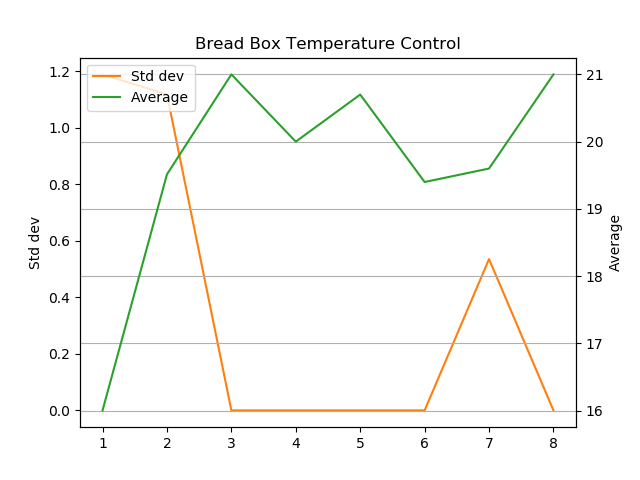
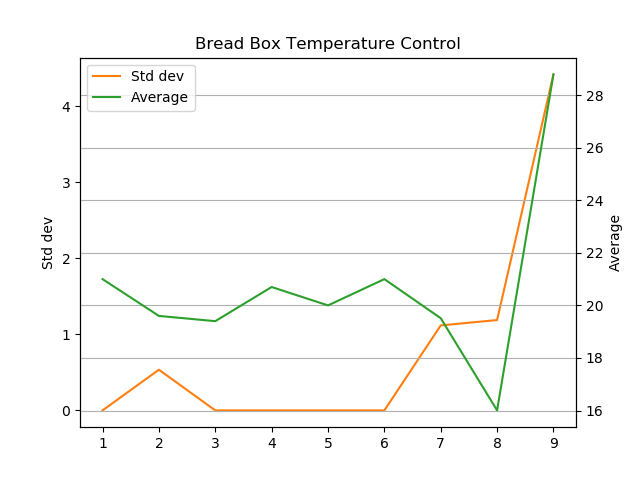
Improving graph generation. Small aesthetic changes. Adding new app for stats

diff --git a/home/templates/home/index.html b/home/templates/home/index.html
@@ -15,21 +15,12 @@
         </div>
         <div class="content container">
             {% load static %}
+            <h1>Latest Run:</h1>
             <img src="{% static "home/graph.png" %}" alt="My image"/>
+            <h1>Run History:</h1>
             <img src="{% static "home/stddev.png" %}" alt="My image"/>
             <div class="row">
                 <div class="col-md-8">
-                    <table>
-                        <thead><h1>All time stats</h1></thead>
-                        <tr class="lb">
-                            <td><h4>Std dev</h4></td>
-                            <td><h4>Mean</h4></td>
-                        </tr>
-                        <tr class="bb">
-                            <td><p>{{ stddev }}</p></td>
-                            <td><p>{{ mean }}</p></td>
-                        </tr>
-                    </table>
                     <div>
                         <p>{{ runs }}</p>
                     </div>

diff --git a/home/views.py b/home/views.py
@@ -13,7 +13,7 @@ import datetime
 import sqlite3
 import matplotlib.pyplot as plt
 
-def generate_graph_image(data):
+def generate_graph_image(data, multi_y=False):
     # Line format [["title", "file_name"], [x, y, "x_label", "y_label", "line_label"], etc]
     # Construct the graph
 
@@ -25,8 +25,11 @@ def generate_graph_image(data):
     colour_options = ['C0', 'C1', 'C2', 'C3', 'C4']
     if len(data) > 2:
         for i in range(2, len(data)):
-            ax = ax1.twinx()
-            plot_axis[str(i)] = ax
+            if not multi_y:
+                plot_axis[str(i)] = ax1
+            else:
+                ax = ax1.twinx()
+                plot_axis[str(i)] = ax
     for i in range(1, len(data)):
         ax = plot_axis[str(i)]
         line, = ax.plot(data[i][0], data[i][1], colour_options[i])
@@ -89,18 +92,16 @@ def get_separate_runs():
             run = []
         run.append(temp.temp)
         time_range = temp.rec_date - datetime.timedelta(seconds=10)
+    print(np.std(temp_runs[0]))
     return temp_runs
 
 def calculate_running_stats():
     runs = get_separate_runs()
     std_devs = []
     avgs = []
-    for run in runs:
-        n = 1
-        std_dev = np.std(run)
-        avg = np.average(run)
-        std_devs.append(std_dev)
-        avgs.append(avg)
+    for run in runs[::-1]:
+        std_devs.append(np.std(run))
+        avgs.append(np.average(run))
     return std_devs, avgs
 
 def generate_stddev_graph(request):
@@ -112,7 +113,7 @@ def generate_stddev_graph(request):
         n += 1
 
     data = [['Bread Box Temperature Control', 'stddev'], [y, std_devs, 'Run no.','Std dev', "Std dev"], [y, avgs, 'Run no.','Average', "Average"]]
-    generate_graph_image(data)
+    generate_graph_image(data, multi_y=True)
 
 def index(request):
     latest_blogs_list = BlogPost.objects.order_by('pub_date')[:5]
@@ -120,8 +121,6 @@ def index(request):
     template = loader.get_template('home/index.html')
     context = {
         'latest_blogs_list': latest_blogs_list,
-        'stddev': stats[0],
-        'mean': stats[1],
     }
     generate_temp_graph(request)
     generate_stddev_graph(request)

diff --git a/stats/apps.py b/stats/apps.py
@@ -1,0 +1,5 @@
+from django.apps import AppConfig
+
+
+class StatsConfig(AppConfig):
+    name = 'stats'

diff --git a/stats/admin.py b/stats/admin.py
@@ -1,0 +1,3 @@
+from django.contrib import admin
+
+# Register your models here.

diff --git a/stats/views.py b/stats/views.py
@@ -1,0 +1,3 @@
+from django.shortcuts import render
+
+# Create your views here.

diff --git a/stats/tests.py b/stats/tests.py
@@ -1,0 +1,3 @@
+from django.test import TestCase
+
+# Create your tests here.

diff --git a/stats/models.py b/stats/models.py
@@ -1,0 +1,3 @@
+from django.db import models
+
+# Create your models here.
